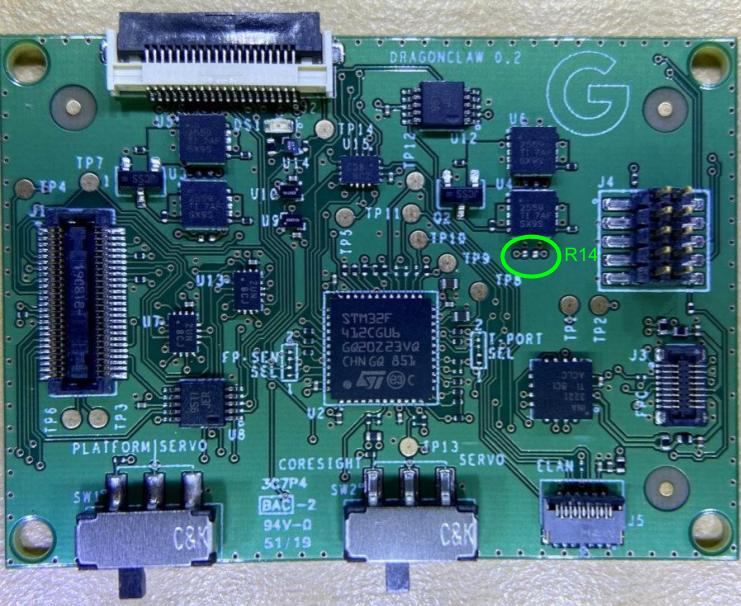
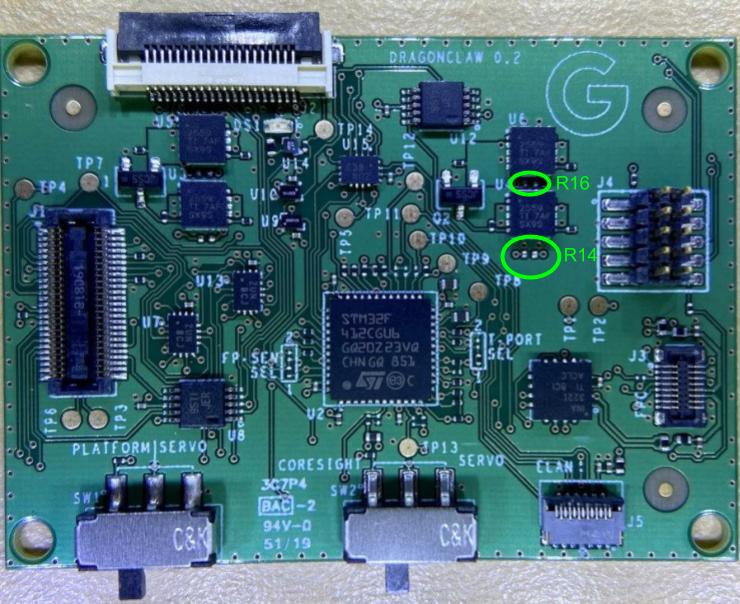
docs/fingerprint: Update Dragonclaw v0.2 rework instructions
Update Dragonclaw v0.2 rework instructions to account for second load
switch.

BRANCH=none
BUG=none
TEST=view in gitiles

diff --git a/docs/fingerprint/fingerprint-dev-for-partners.md b/docs/fingerprint/fingerprint-dev-for-partners.md
@@ -423,12 +423,12 @@ From the DUT, flash the firmware you copied:
 
 ### Dragonclaw Rev 0.2 Rework {#dragonclaw-rev-0.2-rework}
 
-Dragonclaw **Rev 0.2** has a switch to choose 1.8V from the servo connector or
-motherboard connector (controlled by `SW1`). However, this switch is not
-compatible with 1.8V, so will always output 0V. The switch can be bypassed by
-placing a zero ohm resistor on `R14`. See the image below. After performing this
-rework, do not power the board through the motherboard and servo at the same
-time.
+Dragonclaw **Rev 0.2** has two load switches (`U4` and `U6`) that enable the
+1.8V power rail from the servo connector or motherboard connector. However,
+this switch is not compatible with 1.8V, so will always output 0V. The switches
+can be bypassed by placing a zero ohm resistor on `R14` and `R16`. See the image
+below. After performing this rework, do not power the board through the
+motherboard and servo at the same time.
 
 ![Dragonclaw Rev 0.2 1.8V Rework]
 
@@ -536,5 +536,5 @@ https://crbug.com/992082.
 <!-- If you make changes to the docs below make sure to regenerate the JPEGs by
      appending "export/jpeg" to the Google Drive link. -->
 
-<!-- https://docs.google.com/drawings/d/1i9YE3xcsBQRhSrBRP6zlFUSgN2i01Dk8mC2-Q_vvmmY -->
+<!-- https://docs.google.com/drawings/d/1ecDewBXy8KecyPLi85sXcnqBh4KwK1Z8hfW_T2fDfUU -->
 [Dragonclaw Rev 0.2 1.8V Rework]: ../images/dragonclaw_rev_0.2_1.8v_rework.jpg
